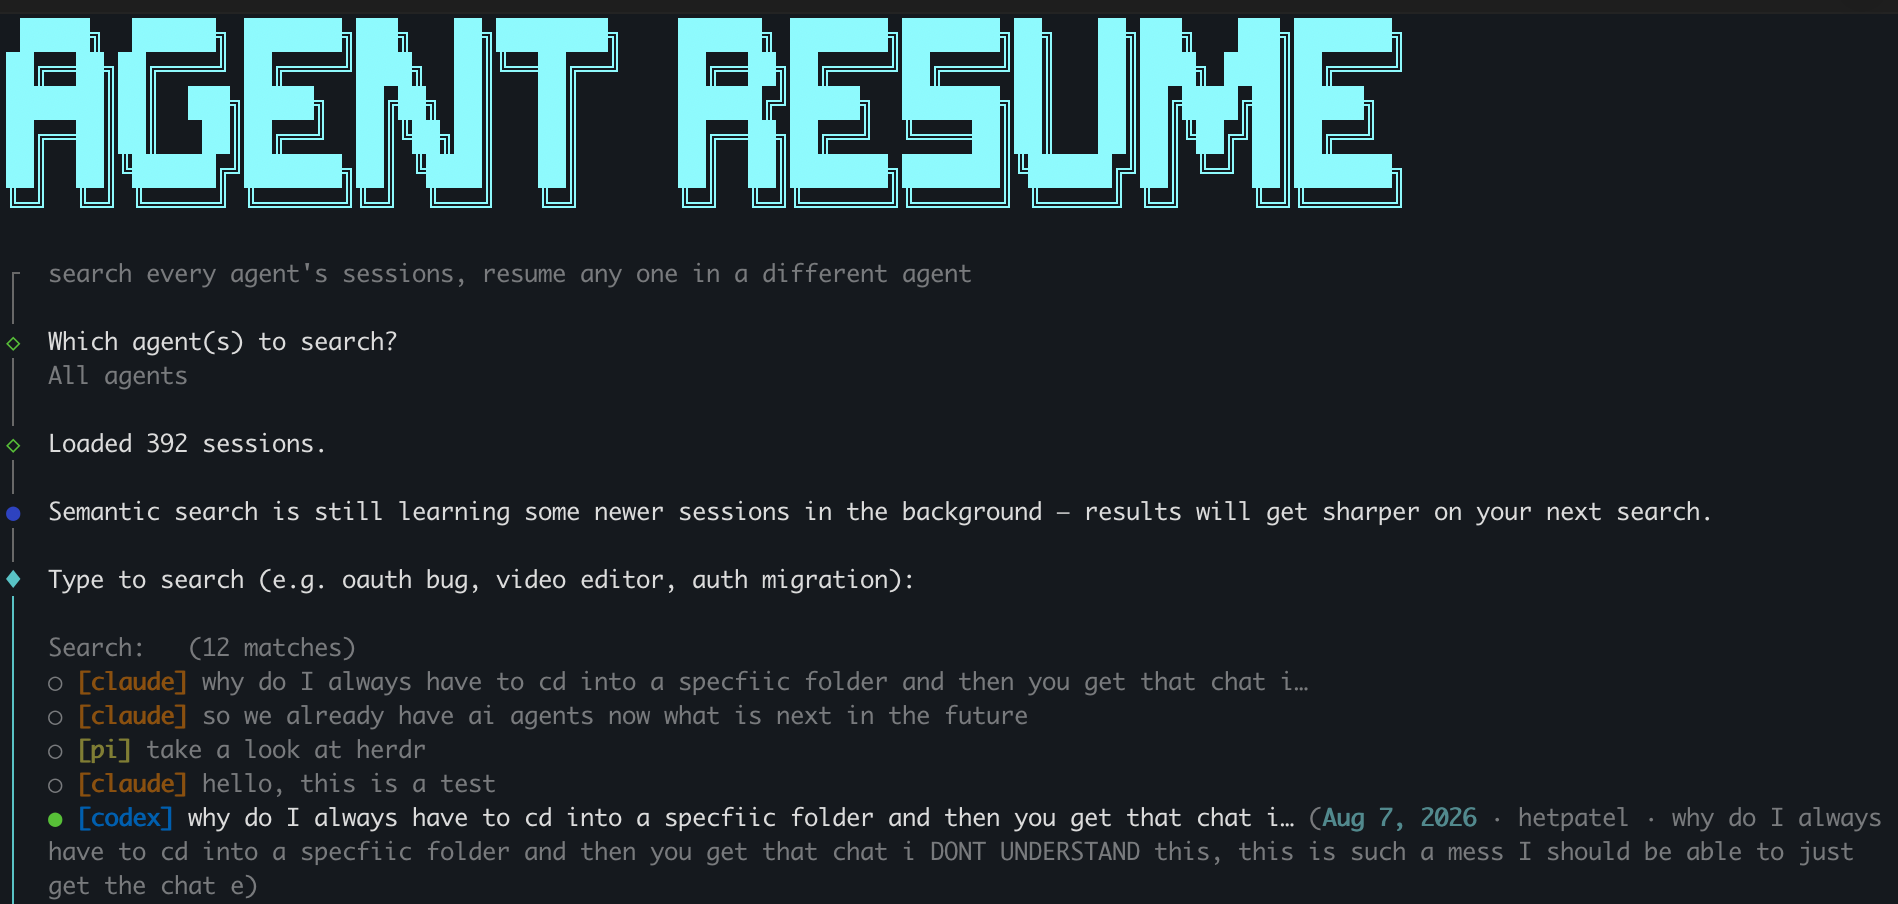
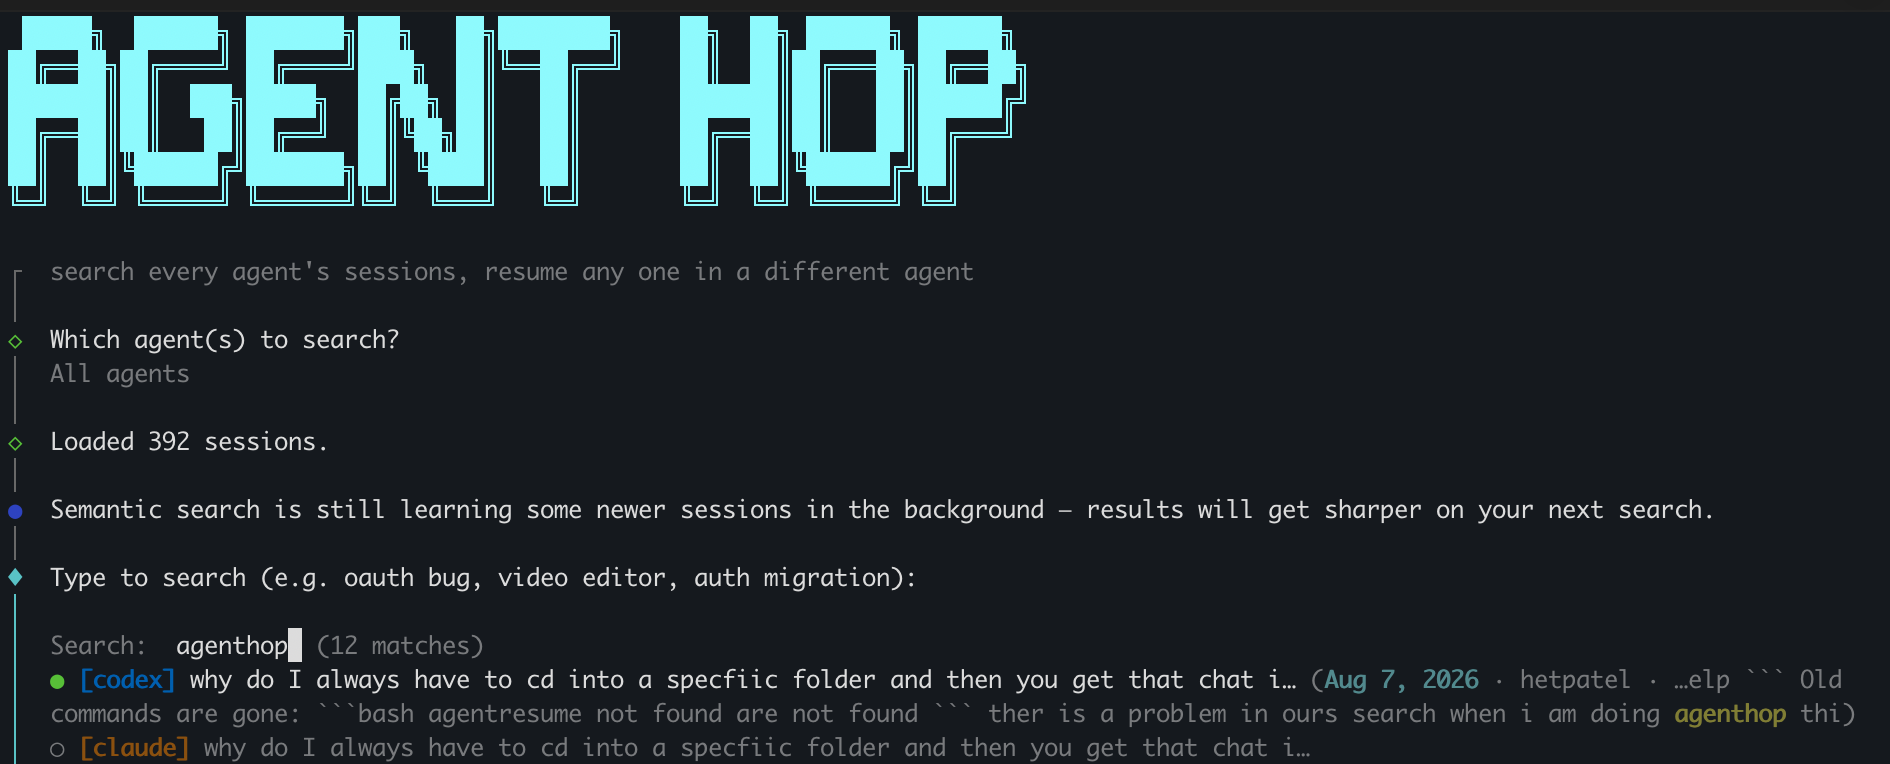
fix: improve agent-hop search recall

diff --git a/src/search.ts b/src/search.ts
@@ -116,6 +116,10 @@ const FUZZY_MATCH_WEIGHT = 0.6;
 // signal ("ux" typed as the start of "uxp"), not a guessed correction the
 // way a typo-fix is. Still below 1.0 so a genuine exact match always wins.
 const PREFIX_MATCH_WEIGHT = 0.85;
+// A concatenated query like "agenthop" should still match documents that
+// tokenized it as "agent hop" or "agent-hop". This is neither a typo nor a
+// prefix; it is decompounding an unknown token into known corpus terms.
+const COMPOUND_MATCH_WEIGHT = 0.9;
 
 class BM25 {
   private readonly k1 = 1.5;
@@ -171,11 +175,46 @@ class BM25 {
  * edit distance does: "auth" -> "authentication" is 10 edits apart but a
  * 4-character exact prefix); otherwise fall back to edit-distance typo
  * tolerance. A token matching none of these contributes nothing. */
+function splitCompoundToken(term: string, bm25: BM25): string[] | undefined {
+  // Avoid turning short/noisy tokens into accidental two-letter fragments.
+  if (term.length < 6) return undefined;
+
+  const memo = new Map<number, string[] | undefined>();
+  const solve = (start: number): string[] | undefined => {
+    if (start === term.length) return [];
+    if (memo.has(start)) return memo.get(start);
+
+    for (let end = term.length; end >= start + 2; end--) {
+      const part = term.slice(start, end);
+      if (!bm25.hasTerm(part)) continue;
+      const rest = solve(end);
+      if (rest) {
+        const result = [part, ...rest];
+        memo.set(start, result);
+        return result;
+      }
+    }
+
+    memo.set(start, undefined);
+    return undefined;
+  };
+
+  const parts = solve(0);
+  // Require at least two real words. This keeps normal exact-vocab terms
+  // untouched and only handles true concatenations.
+  return parts && parts.length >= 2 ? parts : undefined;
+}
+
 function expandQueryTerms(queryTerms: string[], bm25: BM25, vocabTree: BKTree, prefixIndex: PrefixIndex): WeightedTerm[] {
   const expanded: WeightedTerm[] = [];
   for (const term of queryTerms) {
     if (bm25.hasTerm(term)) {
       expanded.push({ term, weight: 1 });
+      continue;
+    }
+    const compoundParts = splitCompoundToken(term, bm25);
+    if (compoundParts) {
+      for (const part of compoundParts) expanded.push({ term: part, weight: COMPOUND_MATCH_WEIGHT });
       continue;
     }
     const prefixMatches = prefixIndex.search(term);
@@ -292,11 +331,12 @@ function buildLexicalIndex(sessions: SessionRef[]): LexicalIndex {
   return { bm25, vocabTree, prefixIndex, sessions };
 }
 
-function lexicalScores(index: LexicalIndex, trimmedQuery: string): { queryTerms: string[]; bm25Normalized: number[] } {
+function lexicalScores(index: LexicalIndex, trimmedQuery: string): { queryTerms: string[]; matchTerms: string[]; bm25Normalized: number[] } {
   const queryTerms = tokenize(trimmedQuery);
   const weighted = expandQueryTerms(queryTerms, index.bm25, index.vocabTree, index.prefixIndex);
+  const matchTerms = [...new Set([...queryTerms, ...weighted.map((t) => t.term)])];
   const bm25Scores = index.sessions.map((_, i) => index.bm25.score(i, weighted));
-  return { queryTerms, bm25Normalized: minMaxNormalize(bm25Scores) };
+  return { queryTerms, matchTerms, bm25Normalized: minMaxNormalize(bm25Scores) };
 }
 
 /** Exact-match tier, recency multiplier, meaningful-score cutoff, and
@@ -407,15 +447,15 @@ export function buildRanker(sessions: SessionRef[]): Ranker {
     rank(query: string, limit = 15): SessionRef[] {
       const trimmed = query.trim();
       if (!trimmed) return [...sessions].sort((a, b) => b.updatedAt - a.updatedAt).slice(0, limit);
-      const { queryTerms, bm25Normalized } = lexicalScores(index, trimmed);
-      return applyRankingLayers(sessions, queryTerms, trimmed, bm25Normalized, limit, 0.1);
+      const { matchTerms, bm25Normalized } = lexicalScores(index, trimmed);
+      return applyRankingLayers(sessions, matchTerms, trimmed, bm25Normalized, limit, 0.1);
     },
 
     async refineWithSemantic(query: string, limit = 15): Promise<SessionRef[]> {
       const trimmed = query.trim();
       if (!trimmed) return [...sessions].sort((a, b) => b.updatedAt - a.updatedAt).slice(0, limit);
 
-      const { queryTerms, bm25Normalized } = lexicalScores(index, trimmed);
+      const { matchTerms, bm25Normalized } = lexicalScores(index, trimmed);
 
       let semanticNormalized = new Array(sessions.length).fill(0);
       try {
@@ -430,7 +470,7 @@ export function buildRanker(sessions: SessionRef[]): Ranker {
       }
 
       const relevance = sessions.map((_, i) => BM25_WEIGHT * bm25Normalized[i] + SEMANTIC_WEIGHT * semanticNormalized[i]);
-      return applyRankingLayers(sessions, queryTerms, trimmed, relevance, limit, 0.15);
+      return applyRankingLayers(sessions, matchTerms, trimmed, relevance, limit, 0.15);
     },
   };
 }

diff --git a/src/adapters/claude.ts b/src/adapters/claude.ts
@@ -4,7 +4,7 @@ import { homedir } from "node:os";
 import { randomUUID } from "node:crypto";
 import { execFileSync } from "node:child_process";
 import type { Adapter, SessionRef, Turn } from "../types.js";
-import { readJsonlLines, readJsonlLinesLazy, findFiles, mtimeMs, MIN_TITLE_CHARS, cleanTitle } from "../util.js";
+import { readJsonlLines, readJsonlLinesLazy, findFiles, mtimeMs, MIN_TITLE_CHARS, cleanTitle, BodySampler } from "../util.js";
 
 const PROJECTS_DIR = join(homedir(), ".claude", "projects");
 
@@ -43,7 +43,7 @@ async function listSessions(): Promise<SessionRef[]> {
     let cwd: string | undefined;
     let firstUserText = ""; // any length -- fallback
     let titleText = ""; // first *substantive* user message -- preferred
-    let body = "";
+    const body = new BodySampler(MAX_BODY_CHARS);
     for await (const obj of readJsonlLinesLazy(file)) {
       if (typeof obj.cwd === "string") cwd = obj.cwd;
       if (obj.type !== "user" && obj.type !== "assistant") continue;
@@ -62,10 +62,7 @@ async function listSessions(): Promise<SessionRef[]> {
         if (!firstUserText) firstUserText = text;
         if (!titleText && text.length >= MIN_TITLE_CHARS) titleText = text;
       }
-      if (body.length < MAX_BODY_CHARS) body += text + " ";
-      // once we have a title candidate and enough body text, parsing the
-      // rest of a huge file just to discard it is wasted work
-      if (cwd && titleText && body.length >= MAX_BODY_CHARS) break;
+      body.append(text);
     }
     if (!cwd) continue;
     const sessionId = file.split("/").pop()!.replace(/\.jsonl$/, "");
@@ -76,7 +73,7 @@ async function listSessions(): Promise<SessionRef[]> {
       projectPath: cwd,
       title: title || "(empty)",
       snippet: title.slice(0, 200),
-      body: body.slice(0, MAX_BODY_CHARS),
+      body: body.value(),
       updatedAt: mtimeMs(file),
       raw: { file },
     });

diff --git a/src/adapters/grok.ts b/src/adapters/grok.ts
@@ -3,7 +3,7 @@ import { join } from "node:path";
 import { homedir } from "node:os";
 import { randomUUID } from "node:crypto";
 import type { Adapter, SessionRef, Turn } from "../types.js";
-import { readJsonlLines, readJsonlLinesLazy, findFiles, mtimeMs, cleanTitle } from "../util.js";
+import { readJsonlLines, readJsonlLinesLazy, findFiles, mtimeMs, cleanTitle, BodySampler } from "../util.js";
 
 const SESSIONS_DIR = join(homedir(), ".grok", "sessions");
 
@@ -35,21 +35,20 @@ async function listSessions(): Promise<SessionRef[]> {
     if (!sessionId || !cwd) continue;
 
     let firstUserText = "";
-    let body = "";
+    const body = new BodySampler(MAX_BODY_CHARS);
     for await (const obj of readJsonlLinesLazy(chatFile)) {
       if (obj.type === "user" && Array.isArray(obj.content)) {
         for (const b of obj.content as { text?: string }[]) {
           const q = extractUserQuery(b.text ?? "");
           if (q) {
             if (!firstUserText) firstUserText = q;
-            if (body.length < MAX_BODY_CHARS) body += q + " ";
+            body.append(q);
             break;
           }
         }
       } else if (obj.type === "assistant" && typeof obj.content === "string" && obj.content.trim()) {
-        if (body.length < MAX_BODY_CHARS) body += obj.content.trim() + " ";
+        body.append(obj.content.trim());
       }
-      if (firstUserText && body.length >= MAX_BODY_CHARS) break;
     }
 
     out.push({
@@ -58,7 +57,7 @@ async function listSessions(): Promise<SessionRef[]> {
       projectPath: cwd,
       title: cleanTitle((summary.generated_title as string) || firstUserText) || "(empty)",
       snippet: firstUserText.slice(0, 200),
-      body: body.slice(0, MAX_BODY_CHARS),
+      body: body.value(),
       updatedAt: mtimeMs(chatFile),
       raw: { file: chatFile },
     });

diff --git a/src/adapters/codex.ts b/src/adapters/codex.ts
@@ -4,7 +4,7 @@ import { homedir } from "node:os";
 import { randomUUID } from "node:crypto";
 import { execFileSync } from "node:child_process";
 import type { Adapter, SessionRef, Turn } from "../types.js";
-import { readJsonlLines, readJsonlLinesLazy, findFiles, mtimeMs, MIN_TITLE_CHARS, cleanTitle } from "../util.js";
+import { readJsonlLines, readJsonlLinesLazy, findFiles, mtimeMs, MIN_TITLE_CHARS, cleanTitle, BodySampler } from "../util.js";
 
 const SESSIONS_DIR = join(homedir(), ".codex", "sessions");
 
@@ -38,7 +38,7 @@ async function listSessions(): Promise<SessionRef[]> {
     let firstUserText = "";
     let firstAssistantText = "";
     let titleText = "";
-    let body = "";
+    const body = new BodySampler(MAX_BODY_CHARS);
     for await (const obj of readJsonlLinesLazy(file)) {
       if (obj.type === "session_meta") {
         const payload = obj.payload as { id?: string; cwd?: string } | undefined;
@@ -67,8 +67,7 @@ async function listSessions(): Promise<SessionRef[]> {
       } else if (!firstAssistantText) {
         firstAssistantText = text;
       }
-      if (body.length < MAX_BODY_CHARS) body += text + " ";
-      if (sessionId && cwd && titleText && body.length >= MAX_BODY_CHARS) break;
+      body.append(text);
     }
     if (!sessionId || !cwd) continue;
     const title = cleanTitle(titleText || firstUserText || firstAssistantText || `(${cwd.split("/").pop()}, no readable content)`);
@@ -78,7 +77,7 @@ async function listSessions(): Promise<SessionRef[]> {
       projectPath: cwd,
       title,
       snippet: title.slice(0, 200),
-      body: body.slice(0, MAX_BODY_CHARS),
+      body: body.value(),
       updatedAt: mtimeMs(file),
       raw: { file },
     });

diff --git a/src/adapters/pi.ts b/src/adapters/pi.ts
@@ -3,7 +3,7 @@ import { join } from "node:path";
 import { homedir } from "node:os";
 import { randomUUID } from "node:crypto";
 import type { Adapter, SessionRef, Turn } from "../types.js";
-import { readJsonlLines, readJsonlLinesLazy, findFiles, mtimeMs, MIN_TITLE_CHARS, cleanTitle } from "../util.js";
+import { readJsonlLines, readJsonlLinesLazy, findFiles, mtimeMs, MIN_TITLE_CHARS, cleanTitle, BodySampler } from "../util.js";
 
 const SESSIONS_DIR = join(homedir(), ".pi", "agent", "sessions");
 
@@ -28,7 +28,7 @@ async function listSessions(): Promise<SessionRef[]> {
     let cwd: string | undefined;
     let firstUserText = "";
     let titleText = "";
-    let body = "";
+    const body = new BodySampler(MAX_BODY_CHARS);
     for await (const obj of readJsonlLinesLazy(file)) {
       if (obj.type === "session") {
         sessionId = obj.id as string | undefined;
@@ -48,8 +48,7 @@ async function listSessions(): Promise<SessionRef[]> {
         if (!firstUserText) firstUserText = text;
         if (!titleText && text.length >= MIN_TITLE_CHARS) titleText = text;
       }
-      if (body.length < MAX_BODY_CHARS) body += text + " ";
-      if (sessionId && cwd && titleText && body.length >= MAX_BODY_CHARS) break;
+      body.append(text);
     }
     if (!sessionId || !cwd) continue;
     const title = cleanTitle(titleText || firstUserText);
@@ -59,7 +58,7 @@ async function listSessions(): Promise<SessionRef[]> {
       projectPath: cwd,
       title: title || "(empty)",
       snippet: title.slice(0, 200),
-      body: body.slice(0, MAX_BODY_CHARS),
+      body: body.value(),
       updatedAt: mtimeMs(file),
       raw: { file },
     });

diff --git a/src/util.ts b/src/util.ts
@@ -98,6 +98,32 @@ export function mtimeMs(path: string): number {
  * candidate; the raw first message is still kept as a fallback. */
 export const MIN_TITLE_CHARS = 15;
 
+export class BodySampler {
+  private first = "";
+  private head = "";
+  private tail = "";
+  private total = 0;
+
+  constructor(
+    private readonly maxChars = 40000,
+    private readonly headChars = 20000,
+    private readonly tailChars = 20000
+  ) {}
+
+  append(text: string): void {
+    if (!text) return;
+    const segment = text + " ";
+    this.total += segment.length;
+    if (this.first.length < this.maxChars) this.first += segment.slice(0, this.maxChars - this.first.length);
+    if (this.head.length < this.headChars) this.head += segment.slice(0, this.headChars - this.head.length);
+    this.tail = (this.tail + segment).slice(-this.tailChars);
+  }
+
+  value(): string {
+    return this.total <= this.maxChars ? this.first : `${this.head} … ${this.tail}`;
+  }
+}
+
 const MAX_TITLE_CHARS = 80;
 
 /**
